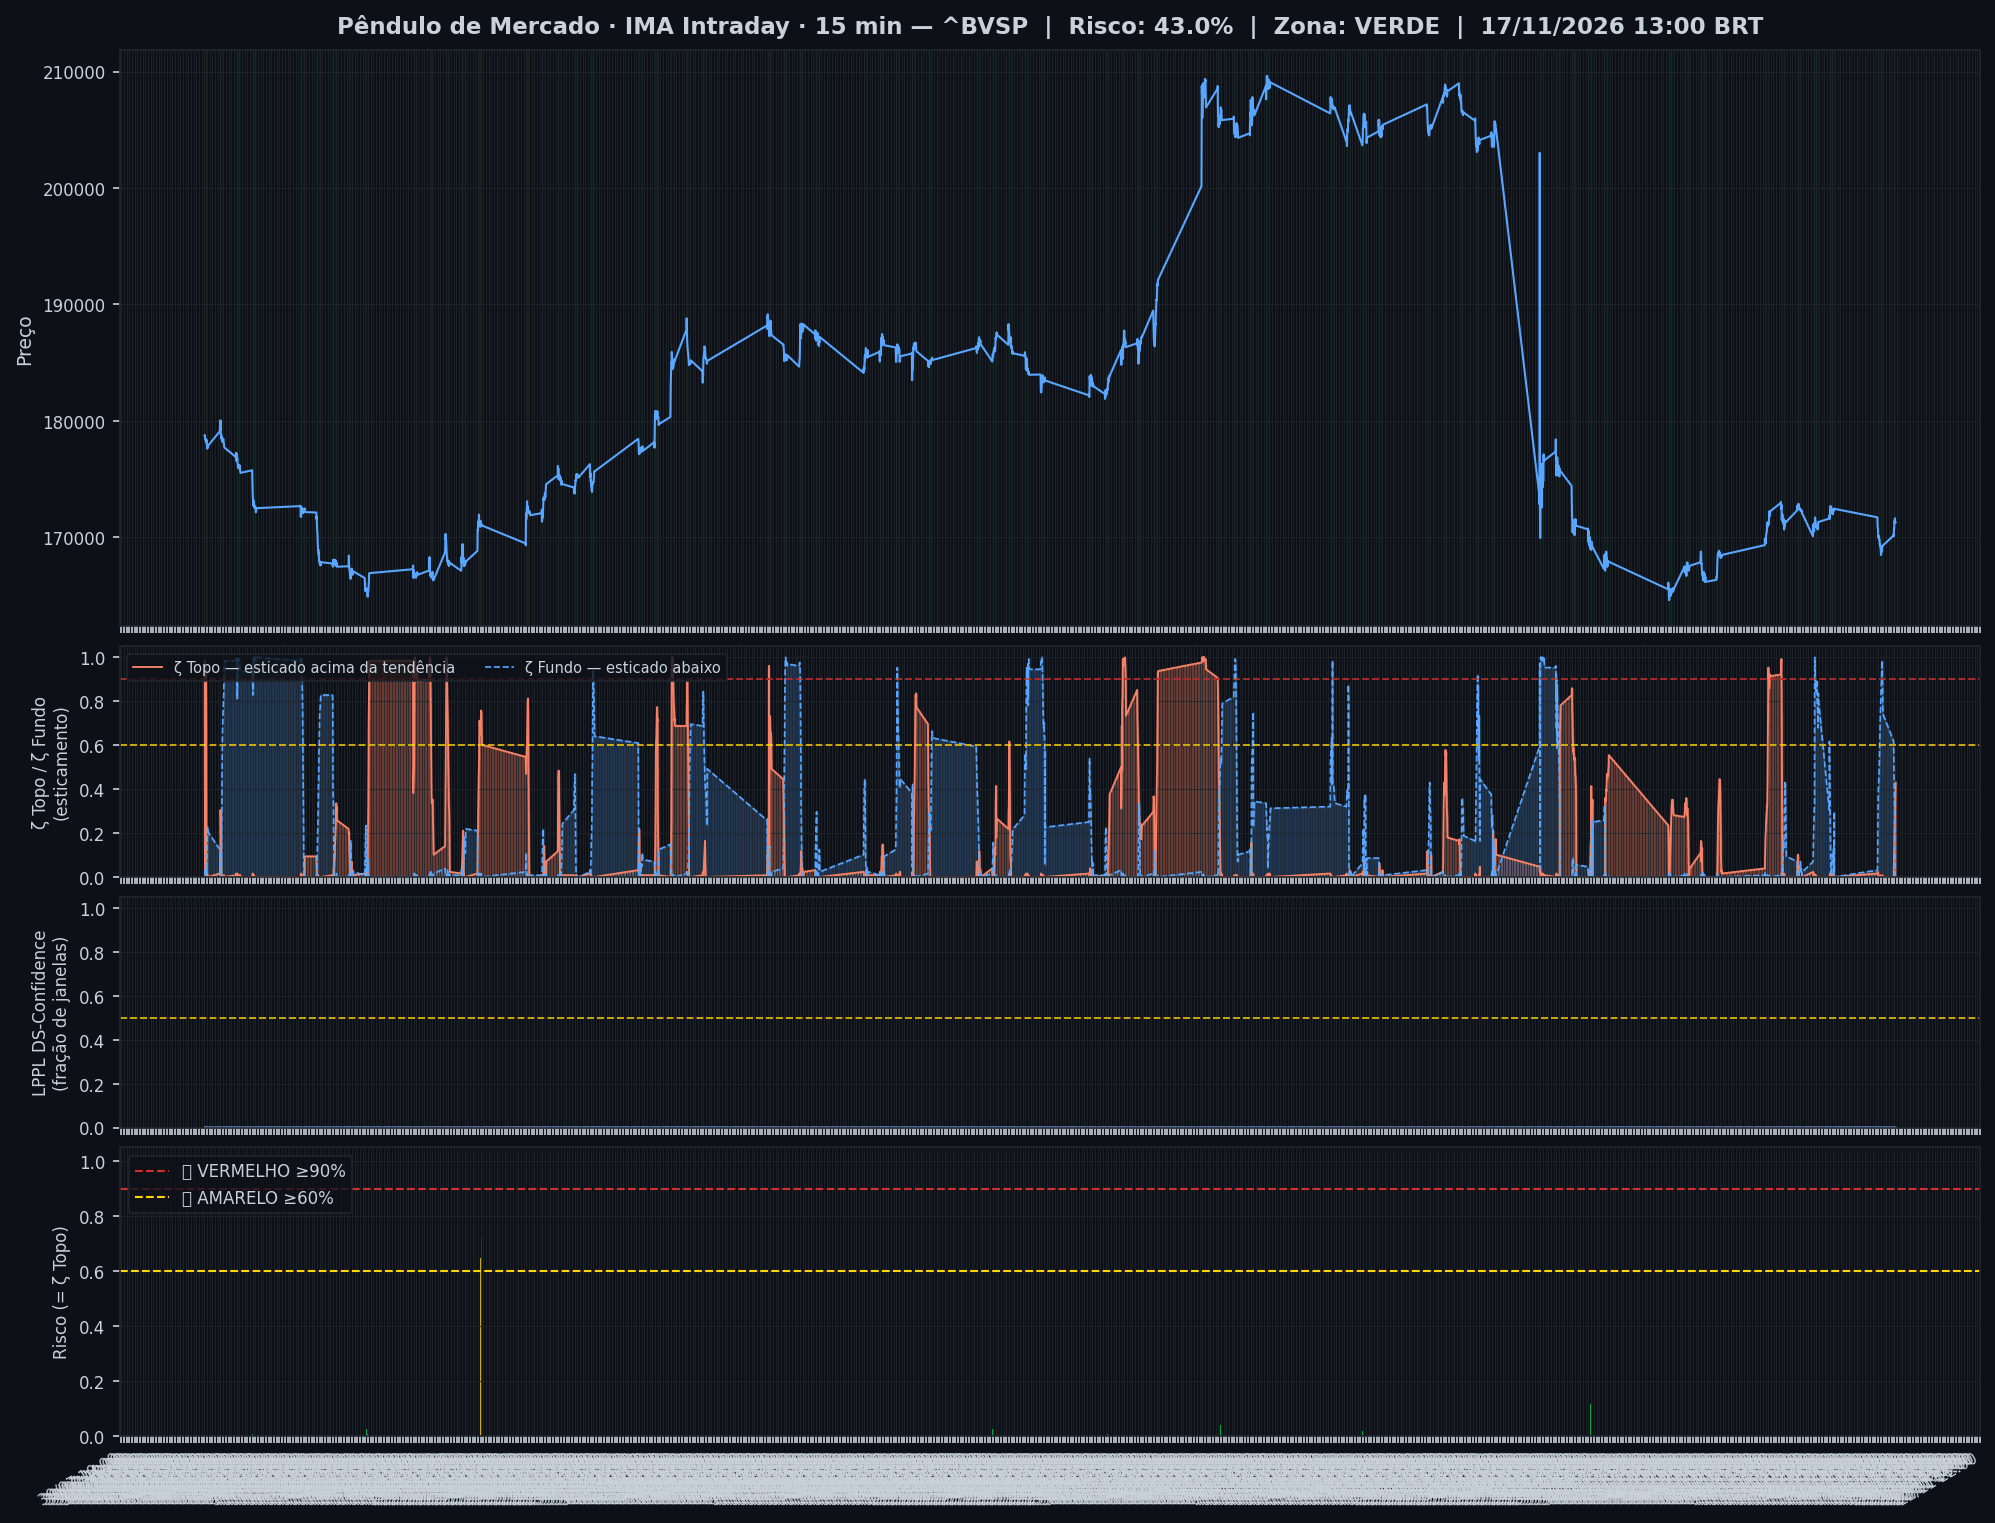
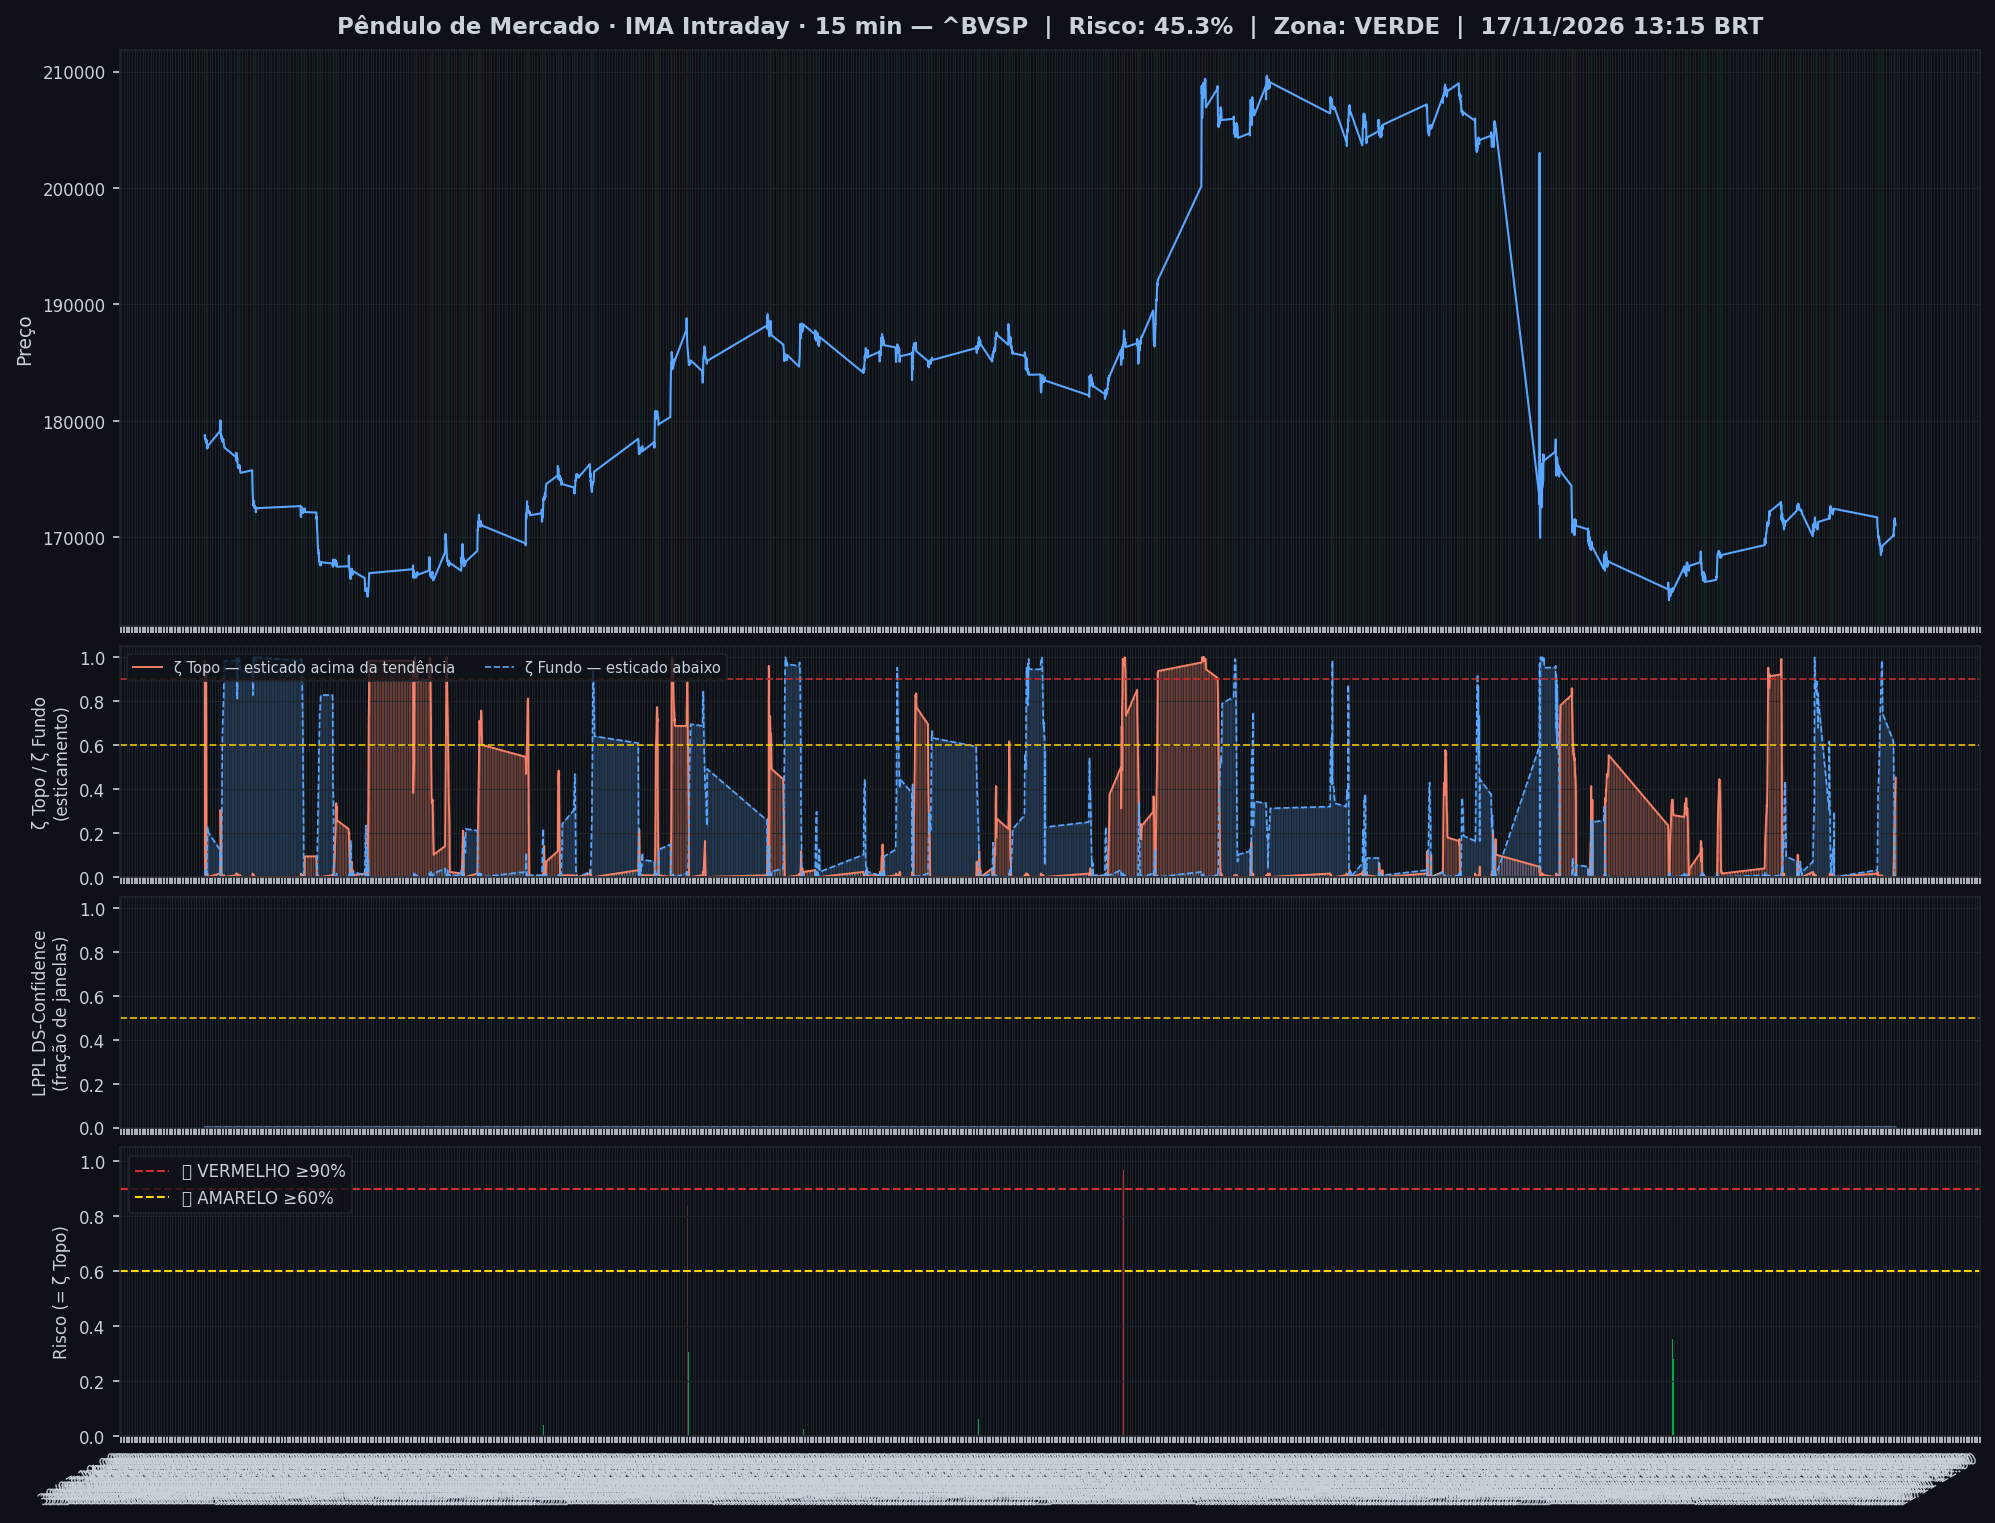
🤖 Auto: Sinal 17/11/2026 13:31

Changed region(s): [[0.7769, 0.5246, 0.8391, 0.5863], [0.9323, 0.4938, 0.9634, 0.5246], [0.7148, 0.5246, 0.7459, 0.5555]]

diff --git a/content/intraday/2026-11-17.md b/content/intraday/2026-11-17.md
@@ -1,11 +1,11 @@
 ---
-title: "🟢 Intraday 17/11/2026 13:00 BRT — VERDE"
+title: "🟢 Intraday 17/11/2026 13:15 BRT — VERDE"
 date: 2026-11-17
 tags: [intraday]
 ---
 
-> [!success] Onde o mercado está agora (17/11 13:00, candles de 15 min): **🟢 Calmo**
-> `Pânico ◀──────────────●──────▶ Euforia`
+> [!success] Onde o mercado está agora (17/11 13:15, candles de 15 min): **🟢 Calmo**
+> `Pânico ◀───────────────●─────▶ Euforia`
 >
 > O Ibovespa está dentro da sua faixa normal, sem excesso para cima nem para baixo.
 > No gráfico diário: 🌱 Fundo se desfazendo.
@@ -20,7 +20,7 @@ tags: [intraday]
 > | 📍 **Sinais** | hoje: nenhum sinal | [abrir](sinais-topo-fundo/) |
 > | 🧪 **Placar ao vivo** | 1 operação(ões), 0 com lucro, soma -0,8% | [abrir](operacoes/) |
 
-> [!success] IMA Intraday · 15 min (17/11 13:00): 🟢 **VERDE** — Risco 43% · ▲ +5 p.p. vs leitura anterior
+> [!success] IMA Intraday · 15 min (17/11 13:15): 🟢 **VERDE** — Risco 45% · ▲ +2 p.p. vs leitura anterior
 > `█████████░░░░░░░░░░░`
 > Preço na faixa normal em torno da tendência.
 
@@ -32,13 +32,13 @@ tags: [intraday]
 >
 > *Leitura educacional baseada em 26 anos de dados, não recomendação. [Como usar](../metodologia/crise#3-como-usar-na-prática).*
 
-| Indicador — IMA Intraday · 15 min (17/11 13:00) | Valor |
+| Indicador — IMA Intraday · 15 min (17/11 13:15) | Valor |
 |---|---|
-| 🔴 ζ Topo — preço esticado acima da tendência | **43%** |
+| 🔴 ζ Topo — preço esticado acima da tendência | **45%** |
 | 🔵 ζ Fundo — preço esticado abaixo da tendência | 0% |
 | 🫧 LPPL bolha — alta super-exponencial (risco de crash) | 0% |
 | 🫧 LPPL antibolha — queda super-exponencial (risco de repique) | 0% |
-| 📊 Ibovespa | 171.287 pts |
+| 📊 Ibovespa | 171.059 pts |
 
 ![Gráfico do sinal](../graficos/sinal_intraday.png)
 
@@ -46,6 +46,7 @@ tags: [intraday]
 
 | Data | Zona | Evento | Risco | ζ Topo | ζ Fundo | LPPL |
 |---|---|---|---|---|---|---|
+| 2026-11-17 13:15 | 🟢 VERDE |  | **45%** | 45% | 0% | 0% |
 | 2026-11-17 13:00 | 🟢 VERDE |  | **43%** | 43% | 0% | 0% |
 | 2026-11-17 12:45 | 🟢 VERDE |  | **38%** | 38% | 0% | 0% |
 | 2026-11-17 12:30 | 🟢 VERDE |  | **37%** | 37% | 0% | 0% |
@@ -75,7 +76,6 @@ tags: [intraday]
 | 2026-11-16 14:45 | 🟢 VERDE |  | **0%** | 0% | 🔵 **79%** | 0% |
 | 2026-11-16 14:30 | 🟢 VERDE |  | **0%** | 0% | 🔵 **77%** | 0% |
 | 2026-11-16 14:15 | 🟢 VERDE |  | **0%** | 0% | 🔵 **74%** | 0% |
-| 2026-11-16 14:00 | 🟢 VERDE |  | **1%** | 1% | 🔵 **70%** | 0% |
 
 <small>Destaques: 🟡 ≥ 60% · 🔴 ≥ 90% (Risco e ζ Topo) · 🔵 ≥ 60% · 🔪 ≥ 90% (ζ Fundo) · 🫧 ≥ 30% · 🫧🔴 ≥ 50% (LPPL)</small>
 
@@ -84,42 +84,42 @@ tags: [intraday]
 **12% dos ativos em tensão** (1🔴 2🟡) · **0 com ζ Fundo alto** — quanto mais ativos disparam juntos, mais confiável o sinal.
 
 > [!danger] Em destaque no multi-ativo
-> 🔴 **PRIO** ζ Topo 100% · 🟡 **WEG** ζ Topo 80% · 🟡 **REDE D OR** ζ Topo 62%
+> 🔴 **PRIO** ζ Topo 98% · 🟡 **WEG** ζ Topo 81% · 🟡 **REDE D OR** ζ Topo 72%
 
 | Zona | Ativo | Setor | ζ Topo | ζ Fundo |
 |---|---|---|---|---|
-| 🔴 | **PRIO** | Petróleo | 🔴 **100.0%** | 0.0% |
-| 🟡 | **WEG** | Industrial | 🟡 **79.7%** | 0.0% |
-| 🟡 | **REDE D OR** | Saúde | 🟡 **62.5%** | 0.0% |
-| 🟢 | **GERDAU** | Siderurgia | 49.2% | 0.0% |
-| 🟢 | **ITAUUNIBANCO** | Financeiro | 0.8% | 40.6% |
-| 🟢 | **ENEVA** | Energia | 36.7% | 0.0% |
-| 🟢 | **TELEF BRASIL** | Outros | 35.9% | 0.0% |
-| 🟢 | **SABESP** | Saneamento | 33.6% | 0.0% |
-| 🟢 | **B3** | Financeiro | 33.6% | 0.0% |
-| 🟢 | **LOCALIZA** | Aluguel | 33.6% | 0.0% |
-| 🟢 | **PETROBRAS** | Petróleo | 29.7% | 0.8% |
-| 🟢 | **AXIA ENERGIA** | Energia | 29.7% | 0.0% |
-| 🟢 | **COPEL** | Energia | 29.7% | 0.0% |
-| 🟢 | **PETROBRAS** | Petróleo | 27.3% | 0.0% |
-| 🟢 | **AMBEV S/A** | Consumo | 27.3% | 0.0% |
-| 🟢 | **USD/BRL** | Câmbio | 22.7% | 1.6% |
-| 🟢 | **ITAUSA** | Financeiro | 1.6% | 21.9% |
-| 🟢 | **EQUATORIAL** | Energia | 21.1% | 0.0% |
-| 🟢 | **SUZANO S.A.** | Papel/Celulose | 17.2% | 0.0% |
-| 🟢 | **VIBRA** | Energia | 16.4% | 0.0% |
-| 🟢 | **EMBRAER** | Outros | 10.2% | 0.0% |
-| 🟢 | **VALE** | Mineração | 9.4% | 0.0% |
-| 🟢 | **BTGP BANCO** | Financeiro | 9.4% | 0.0% |
-| 🟢 | **BRASIL** | Financeiro | 8.6% | 0.0% |
-| 🟢 | **BRADESCO** | Financeiro | 5.5% | 2.3% |
-| 🟢 | **ULTRAPAR** | Outros | 0.8% | 0.8% |
+| 🔴 | **PRIO** | Petróleo | 🔴 **98.4%** | 0.0% |
+| 🟡 | **WEG** | Industrial | 🟡 **81.2%** | 0.0% |
+| 🟡 | **REDE D OR** | Saúde | 🟡 **71.9%** | 0.0% |
+| 🟢 | **GERDAU** | Siderurgia | 41.4% | 0.0% |
+| 🟢 | **ITAUUNIBANCO** | Financeiro | 0.0% | 39.8% |
+| 🟢 | **ENEVA** | Energia | 35.9% | 0.0% |
+| 🟢 | **SABESP** | Saneamento | 34.4% | 0.0% |
+| 🟢 | **TELEF BRASIL** | Outros | 32.0% | 0.0% |
+| 🟢 | **PETROBRAS** | Petróleo | 29.7% | 0.0% |
+| 🟢 | **LOCALIZA** | Aluguel | 29.7% | 0.8% |
+| 🟢 | **AXIA ENERGIA** | Energia | 28.9% | 0.0% |
+| 🟢 | **COPEL** | Energia | 28.1% | 0.0% |
+| 🟢 | **B3** | Financeiro | 25.0% | 0.8% |
+| 🟢 | **AMBEV S/A** | Consumo | 22.7% | 0.0% |
+| 🟢 | **PETROBRAS** | Petróleo | 21.9% | 0.0% |
+| 🟢 | **EQUATORIAL** | Energia | 20.3% | 0.8% |
+| 🟢 | **ITAUSA** | Financeiro | 0.8% | 18.0% |
+| 🟢 | **EMBRAER** | Outros | 16.4% | 0.0% |
+| 🟢 | **USD/BRL** | Câmbio | 16.4% | 3.1% |
+| 🟢 | **VIBRA** | Energia | 12.5% | 0.8% |
+| 🟢 | **SUZANO S.A.** | Papel/Celulose | 11.7% | 1.6% |
+| 🟢 | **VALE** | Mineração | 6.2% | 0.0% |
+| 🟢 | **BRASIL** | Financeiro | 6.2% | 0.0% |
+| 🟢 | **BRADESCO** | Financeiro | 0.8% | 3.9% |
+| 🟢 | **BTGP BANCO** | Financeiro | 3.9% | 1.6% |
+| 🟢 | **ULTRAPAR** | Outros | 0.8% | 2.3% |
 
 <small>Destaques: 🟡 ≥ 60% · 🔴 ≥ 90% (Risco e ζ Topo) · 🔵 ≥ 60% · 🔪 ≥ 90% (ζ Fundo) · 🫧 ≥ 30% · 🫧🔴 ≥ 50% (LPPL)</small>
 
 ![Monitor multi-ativo](../graficos/multi_intraday.png)
 
-*Página atualizada em 17/11/2026 13:16 BRT (leitura da barra de 2026-11-17 13:00 BRT).*
+*Página atualizada em 17/11/2026 13:31 BRT (leitura da barra de 2026-11-17 13:15 BRT).*
 
 > [!warning] O que este indicador não faz
 > Medido em 5 anos de Ibovespa, o ζ **não antecipa** topos nem fundos: a capacidade de separar o que sobe do que cai ficou em 0,49–0,52, e 0,50 é moeda jogada ao ar. Ele descreve o estado de agora; não é aviso do que vem. As zonas verde/amarelo/vermelho continuam na página como descrição desse estado — **não as use como sinal de entrada ou saída**.

diff --git a/content/index.md b/content/index.md
@@ -6,10 +6,10 @@ tags: [home]
 
 **As ondas do mercado, explicadas.** Leitura do Ibovespa com estatística de 26 anos, baseada no trabalho de pesquisadores e traders reconhecidos e adaptada por Jarbas Daniel da Costa.
 
-*Última atualização: 17/11/2026 13:16 BRT · Intraday 15min*
+*Última atualização: 17/11/2026 13:31 BRT · Intraday 15min*
 
-> [!success] Onde o mercado está agora (17/11 13:00, candles de 15 min): **🟢 Calmo**
-> `Pânico ◀──────────────●──────▶ Euforia`
+> [!success] Onde o mercado está agora (17/11 13:15, candles de 15 min): **🟢 Calmo**
+> `Pânico ◀───────────────●─────▶ Euforia`
 >
 > O Ibovespa está dentro da sua faixa normal, sem excesso para cima nem para baixo.
 > No gráfico diário: 🌱 Fundo se desfazendo.
@@ -20,7 +20,7 @@ tags: [home]
 
 | Módulo | Agora | |
 |---|---|---|
-| 🌊 **Sinal IMA** | 🟢 VERDE · 🟢 calmo · ζ Topo 43% | [relatório](intraday/2026-11-17) |
+| 🌊 **Sinal IMA** | 🟢 VERDE · 🟢 calmo · ζ Topo 45% | [relatório](intraday/2026-11-17) |
 | 📈 **Tendência MME9** | Diário — fora<br>Semanal — fora | [abrir](operacoes/tendencia) |
 | 🎯 **Entradas do método** | ⏳ aguardando: Diário · Nadaraya, Diário · Semáforo N3 após ζ Fundo | [abrir](operacoes/entradas) |
 | 📍 **Sinais** | hoje: nenhum sinal | [abrir](sinais-topo-fundo/) |
@@ -44,18 +44,18 @@ tags: [home]
 > *Leitura educacional baseada em 26 anos de dados, não recomendação. [Como usar](metodologia/crise#3-como-usar-na-prática).*
 
 > [!info]- 🌊 Detalhes do Sinal IMA (indicadores e últimos 7 pregões)
-> > [!success] IMA Intraday · 15 min (17/11 13:00): 🟢 **VERDE** — Risco 43% · ▲ +5 p.p. vs leitura anterior
+> > [!success] IMA Intraday · 15 min (17/11 13:15): 🟢 **VERDE** — Risco 45% · ▲ +2 p.p. vs leitura anterior
 > > `█████████░░░░░░░░░░░`
 > > Preço na faixa normal em torno da tendência.
 >
 >
-> | Indicador — IMA Intraday · 15 min (17/11 13:00) | Valor |
+> | Indicador — IMA Intraday · 15 min (17/11 13:15) | Valor |
 > |---|---|
-> | 🔴 ζ Topo — preço esticado acima da tendência | **43%** |
+> | 🔴 ζ Topo — preço esticado acima da tendência | **45%** |
 > | 🔵 ζ Fundo — preço esticado abaixo da tendência | 0% |
 > | 🫧 LPPL bolha — alta super-exponencial (risco de crash) | 0% |
 > | 🫧 LPPL antibolha — queda super-exponencial (risco de repique) | 0% |
-> | 📊 Ibovespa | 171.287 pts |
+> | 📊 Ibovespa | 171.059 pts |
 >
 > **Multi-ativo:** 12% em tensão (1🔴 2🟡 de 26 ativos)
 >
@@ -63,7 +63,7 @@ tags: [home]
 >
 > | Data | Zona | Risco | ζ Topo | ζ Fundo | LPPL |
 > |---|---|---|---|---|---|
-> | [17/11/2026](intraday/2026-11-17) | 🟢 VERDE | **43%** | 43% | 0% | 0% |
+> | [17/11/2026](intraday/2026-11-17) | 🟢 VERDE | **45%** | 45% | 0% | 0% |
 > | [16/11/2026](intraday/2026-11-16) | 🟢 VERDE | **0%** | 0% | 🔵 **74%** | 0% |
 >
 > <small>Destaques: 🟡 ≥ 60% · 🔴 ≥ 90% (Risco e ζ Topo) · 🔵 ≥ 60% · 🔪 ≥ 90% (ζ Fundo) · 🫧 ≥ 30% · 🫧🔴 ≥ 50% (LPPL)</small>

diff --git a/content/integridade/index.md b/content/integridade/index.md
@@ -5,7 +5,7 @@ description: "O que foi conferido, contra qual fonte e quando — medido na hora
 tags: [integridade]
 ---
 
-*Pregão conferido: **16/11/2026**, com 59 tabelas no acervo · página gerada em 17/11/2026 13:16*
+*Pregão conferido: **16/11/2026**, com 59 tabelas no acervo · página gerada em 17/11/2026 13:31*
 
 O pregão conferido é o último **fechado e arquivado inteiro**, não o de hoje: enquanto o dia corre, só algumas tabelas estão gravadas, e conferir um dia pela metade produziria alarme falso.
 
@@ -19,7 +19,7 @@ Esta página não declara que o site está correto. Ela **mede** e escreve o res
 | Tabelas incompletas | **nenhuma** |
 | Tabelas sem alvo publicado pela B3 | 5 — não há como conferir |
 | Páginas publicadas | 351 |
-| Página escrita mais recentemente | 17/11 13:16 |
+| Página escrita mais recentemente | 17/11 13:31 |
 | Páginas sem data no cabeçalho | 8 — cegas para a conferência de dado |
 
 ## 1 · Acervo do boletim diário

diff --git a/content/historico.md b/content/historico.md
@@ -5,7 +5,7 @@ tags: [historico]
 
 # 📜 Histórico de leituras (v5)
 
-**2.427 leituras** desde 2026-07-03. Na página ficam os últimos 3 dias leitura por leitura e o resumo de cada dia anterior; o registro inteiro está no arquivo para baixar.
+**2.428 leituras** desde 2026-07-03. Na página ficam os últimos 3 dias leitura por leitura e o resumo de cada dia anterior; o registro inteiro está no arquivo para baixar.
 
 [**Baixar o histórico completo**](historico-completo.csv) (106 KB · abre no Excel e no LibreOffice)
 
@@ -16,6 +16,7 @@ tags: [historico]
 
 | Data | Modo | Zona | Risco | IMA | LPPL |
 |---|---|---|---|---|---|
+| 2026-11-17 13:15 | intraday | 🟢 VERDE | 45% | 45% | 0% |
 | 2026-11-17 13:00 | intraday | 🟢 VERDE | 43% | 43% | 0% |
 | 2026-11-17 12:45 | intraday | 🟢 VERDE | 38% | 38% | 0% |
 | 2026-11-17 12:30 | intraday | 🟢 VERDE | 37% | 37% | 0% |

diff --git a/content/operacoes/ranking.md b/content/operacoes/ranking.md
@@ -5,7 +5,7 @@ tags: [operacoes]
 description: "As regras de compra do site ordenadas pelo resultado, com treino, teste e placar ao vivo"
 ---
 
-*Atualizado 17/11/2026 13:16 · histórico simulado com as regras congeladas em 23/10/2026 + placar ao vivo.*
+*Atualizado 17/11/2026 13:31 · histórico simulado com as regras congeladas em 23/10/2026 + placar ao vivo.*
 
 As regras de compra do site, **da que mais rendeu para a que menos rendeu**. O resultado é por operação, no índice à vista, sem custos e sem juros compostos (a soma é só a soma das operações). **Treino** = entradas de 2001 a 2013 e **teste** = 2014 em diante: uma regra só é confiável se ganhou nos dois. O único resultado sem nenhum ajuste ao histórico é o **placar ao vivo**.
 

diff --git a/content/linha-do-tempo/index.md b/content/linha-do-tempo/index.md
@@ -5,7 +5,7 @@ description: "Todo sinal, ordem, stop e aviso do Pêndulo de Mercado, do mais re
 tags: [eventos]
 ---
 
-*Atualizada 17/11/2026 13:16 BRT · a cada 15 min no pregão e às 19h.*
+*Atualizada 17/11/2026 13:31 BRT · a cada 15 min no pregão e às 19h.*
 
 Tudo o que o sistema fez ou detectou, **do mais recente para o mais antigo**: sinais de topo e fundo, ordens de compra e de venda armadas, compras, vendas, stops, avisos de 🚨 preço perto do nível e mudanças do Sinal IMA. Os **últimos 7 dias** ficam abertos; o resto, por **ano → mês → dia**.
 

diff --git a/content/avisos/index.md b/content/avisos/index.md
@@ -2,7 +2,7 @@
 title: "⚠ Avisos: o que saber antes de usar os números"
 ---
 
-*Gerado em 17/11/2026 13:16*
+*Gerado em 17/11/2026 13:31*
 
 Este site publica muitos números, e cada um tem uma limitação que importa na hora de
 decidir. As limitações estão escritas nas próprias páginas, mas quem chega direto numa
